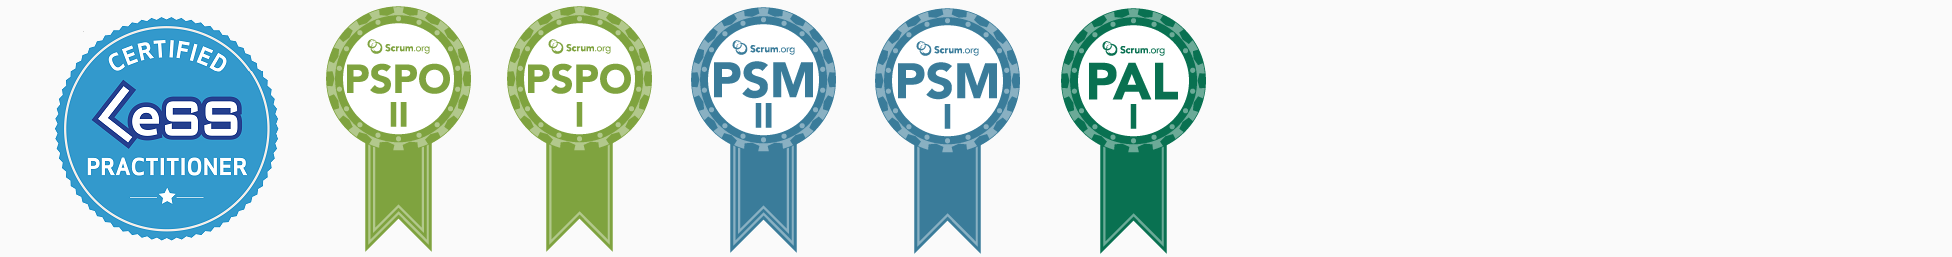
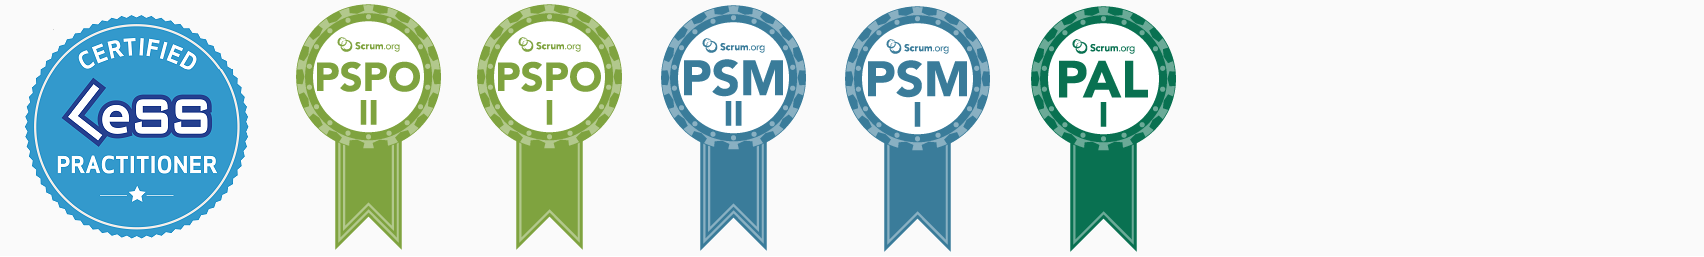
certifications correction

diff --git a/trainers.html b/trainers.html
@@ -61,7 +61,7 @@
                 <p><span style="font-weight: 400;">Agile practitioner, since 2011 associated with the IT industry. Supporting organizations in achieving agility by building it around self-managing teams focused on delivering business value. Błażej gained his experience in small and large companies where he participated in agile transformation, defining new roles, structures and ways of working.</span></p>
                 <p><span style="font-weight: 400;">He has a number of original training projects related to the development of competences in building an agile organization. He conducts trainings in the following areas: Product Management, Agile Leadership, Agile Organisation,Agile Culture, Extreme programming, Recruiting &amp; OnBoarding, Agile HR. Speaker at the Motorola Agile Swarming 2019 conference, IT Academic Days conference, lecture for students of AGH University of Science and Technology, MeetUp ALE Krakow, MeetUp NovoTalks; Web Academy webinar. Author of articles on Agile.</span></p>
                 <p><span style="font-weight: 400;">Certified LeSS practitioner, Scrum Master, Product Owner, Agile Leader and programmer (CLP, PSM II, PSM I, PSPO II, PSPO I, PAL I, C ++ 03 Expert). A graduate of the School of Trainers at the Wszechnica UJ Krakow. An enthusiast of Turquoise Organizations, Large Scale Scrum (LeSS), Management 3.0, Impact Mapping, and #NoEstimate movement.</span></p>
-                <img src="resources/images/certyficates/bdcerts.png" alt="" class="sectionimages"> 
+                <img src="resources/images/certyficates/bdcerts.png" alt="" class="certifications" > 
     
             </section>
     
@@ -85,7 +85,8 @@
                 <p>She has been working in the IT industry since 2011. Over a 10-year experience, she has been in various roles such as Project Manager, Product Owner, Scrum Master, Agile Coach, and People Manager. Marzena shapes teams and organizations to deliver outcomes in a more effective and agile way. Analyzes and helps define the organizational culture, worked as a coach and mentor for teams&rsquo; managers and C-level management. Always starts working with the end in mind, relies on metrics, feedback and facts. She believes that everyone has the power to change the world.</p>
                 <p>Coach and mentor for current and future Leaders. She has conducted many workshops and talks in the areas of Agile Methods and Frameworks, Agile Software Development, Organizational Culture, Performing Teams, and Coaching Skills for Leaders. Speaker and trainer at the Agile Swarming Conference, Sphere.it conference, Soft Skills Academy as well as Agile MeetUps such as ALE Krak&oacute;w, Zwinna Ł&oacute;dź, ProductTank. An active member of the DareIT community, helping women start and grow in the IT world.</p>
                 <p>Marzena graduated from the "Coach and Trainer - Development Partner" studies at Tischner European University in Krakow, gaining ICF ACSTH Accreditation. She is a certified Coach, Scrum Master, Product Owner, Leader, and Project Manager (PSM I, PSM II, PSPO, PAL I, Prince2 Foundation). Marzena is a proponent of maximizing work not done, measuring results, and optimizing the flow of value through a process.</p>
-                <img src="resources/images/certyficates/mzcerts.png" alt="" class="sectionimages"> 
+                <img src="resources/images/certyficates/mzcerts.png" alt="" class="certifications" > 
+
             </section>
     
         </div>       

diff --git a/resources/css/style.css b/resources/css/style.css
@@ -112,6 +112,12 @@ img.sectionimages {
     max-width: 100%;
 }
 
+img.certifications {
+    margin-top: 15px;
+    max-width: 100%;
+    max-height: 100px;
+}
+
 img.portrait {
     margin: 15px;
     width: 90%;
